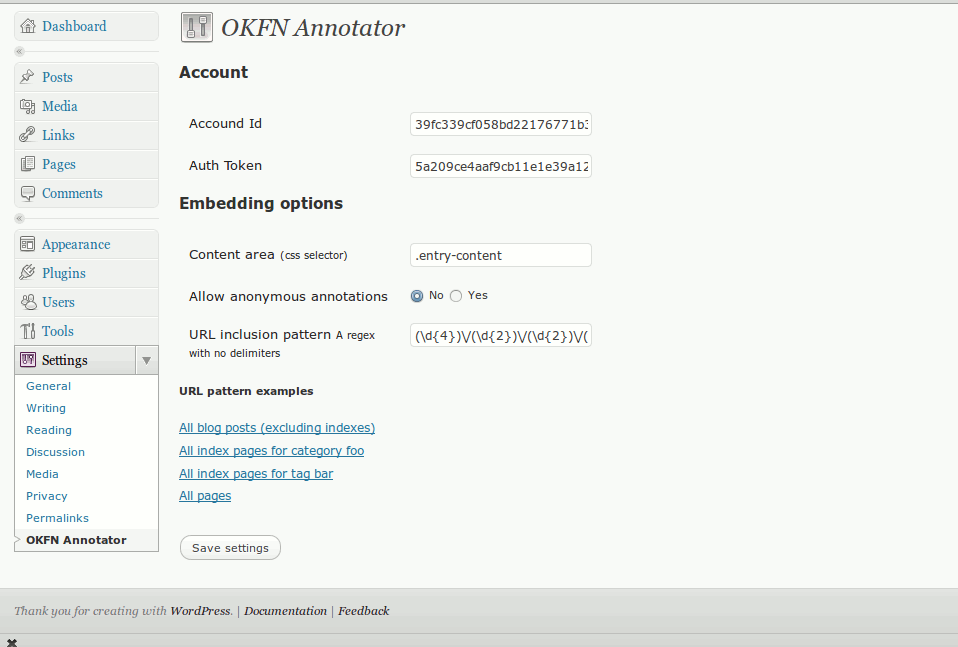
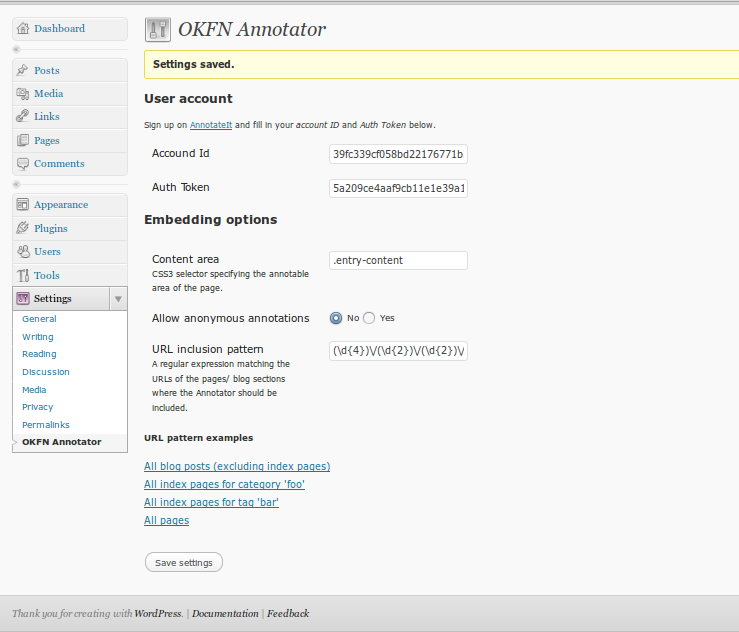
updated settings page and screenshot

diff --git a/templates/settings.html b/templates/settings.html
@@ -8,7 +8,11 @@
   </div>
   {{/form_submitted}}
 
-  <h3>Account</h3>
+  <h3>User account</h3>
+  <small>
+    Sign up on <a href="http://annotateit.org/" target="_blank">AnnotateIt</a> and
+	fill in your <em>account ID</em> and <em>Auth Token</em> below.
+  </small>
   <form name="{{prefix}}" method="post" action="{{action}}">
  	<table class="form-table">
  	  <tbody>
@@ -33,7 +37,9 @@
  	<table class="form-table">
  	  <tbody>
 		<tr valign="top">
-		<th scope="row"><label for="{{prefix}}-annotator_content">Content area <small>(css selector)</small></label></th>
+		<th scope="row"><label
+			for="{{prefix}}-annotator_content">Content area <br/><small>
+			  CSS3 selector specifying the annotable area of the page.</small></label></th>
  		<td>
  		   <input type="text" name="{{prefix}}-annotator_content" id="{{prefix}}-annotator_content" value="{{annotator_content}}"/>
  		 </td>
@@ -49,7 +55,10 @@
 
        <tr valign="top">
  		<th scope="row">
-		  <label for="{{prefix}}-url_pattern">URL inclusion pattern <small>A regex with no delimiters</small></label>
+		  <label for="{{prefix}}-url_pattern">URL inclusion pattern
+			<br/>
+			<small>A regular expression matching the URLs of the pages/
+			  blog sections where the Annotator should be included.</small></label>
  	    </th>
  		<td>
  	      <input type="text" name="{{prefix}}-url_pattern" id="{{prefix}}-url_pattern" value="{{url_pattern}}" />
@@ -61,12 +70,9 @@
    	     <h5>URL pattern examples</h5>
    	     <ul id="regex-examples">
 			<li><a href="#"
-			  data-regex="(\d{4})\/(\d{2})\/(\d{2})\/(.*)$" title="click
-			  to insert">All blog posts (excluding index pages) </a></li>
-   	   		<li><a href="#" data-regex="\/category\/foo/?$" title="click
-			  to insert">All index pages for category 'foo'</a></li>
-   	   		<li><a href="#" data-regex="\/tag\/bar?/$" title="click to
-			  insert">All index pages for tag 'bar' </a></li>
+			  data-regex="(\d{4})\/(\d{2})\/(\d{2})\/(.*)$" title="click to insert">All blog posts (excluding index pages) </a></li>
+   	   		<li><a href="#" data-regex="\/category\/foo/?$" title="click to insert">All index pages for category 'foo'</a></li>
+   	   		<li><a href="#" data-regex="\/tag\/bar?/$" title="click to insert">All index pages for tag 'bar' </a></li>
    	   		<li><a href="#" data-regex=".*" title="click to insert">All pages </a></li>
    	     </ul>
    	  </p>

diff --git a/README.md b/README.md
@@ -23,7 +23,7 @@ activate the plugin through the Wordpress administration panel
 accessible at http://<blogaddress>/wp-admin/plugins.php.
 
 You will also need to sign up at [AnnotateIt](http://annotateti.org) and 
-fill  in your account id and authentication token in the Plugin settings
+fill in your _Account ID_ and _Auth Token_ details in the Plugin settings
 page.
 
 
@@ -31,7 +31,7 @@ page.
 
 A blog post showing the plugin in action be found [here](http://wp-annotator.andreafiore.me/). The plugin settings this specific installation are depicted in the screenshot below:
 
-<img src="https://github.com/okfn/annotator-wordpress/raw/master/screenshot.png" width="638" height="431" alt="wp-annotator settings screenshot" />
+<img src="https://github.com/okfn/annotator-wordpress/raw/master/screenshot.png" alt="wp-annotator settings screenshot" />
 
 
 ### Bugs and feature requests
